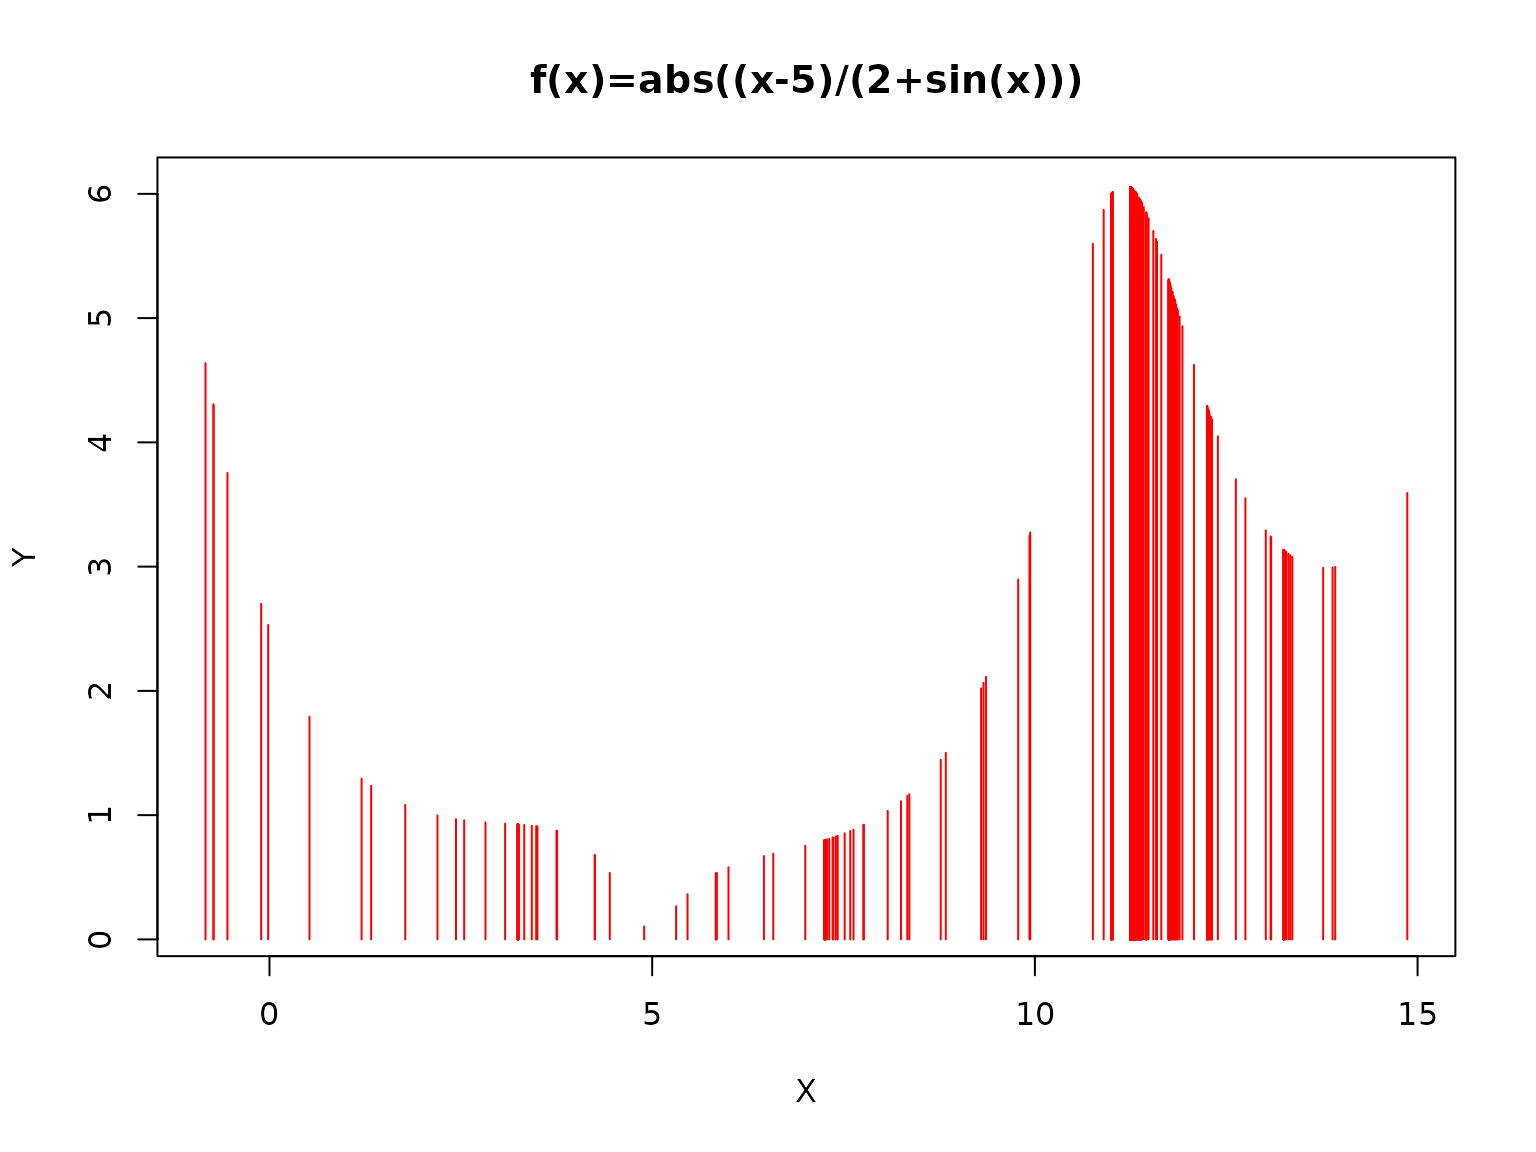
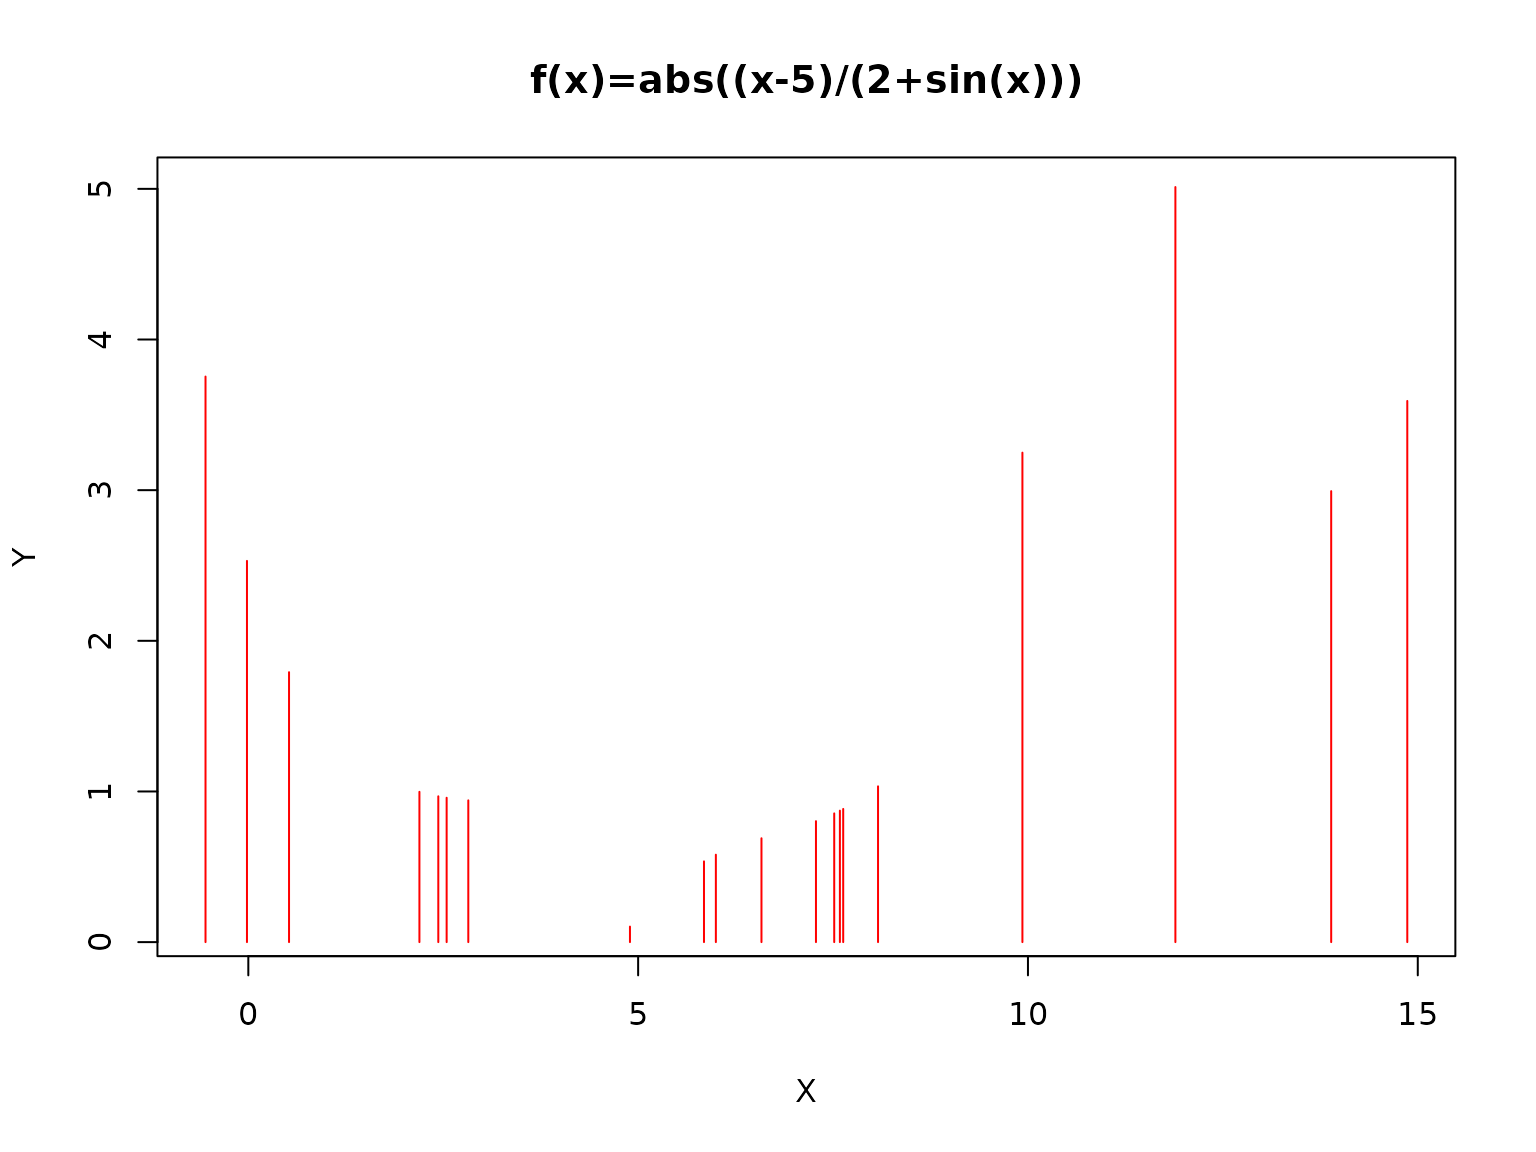
Deploying to gh-pages from @ barcaroli/QGA@d4a26b736a5ef6b88785fa97afcf81897e3bfdae 🚀

diff --git a/articles/functionMax.html b/articles/functionMax.html
@@ -94,7 +94,7 @@
                         <h4 data-toc-skip class="author">Giulio
 Barcaroli</h4>
             
-            <h4 data-toc-skip class="date">2024-09-24</h4>
+            <h4 data-toc-skip class="date">2024-09-25</h4>
       
       <small class="dont-index">Source: <a href="https://github.com/barcaroli/QGA/blob/main/vignettes/functionMax.Rmd" class="external-link"><code>vignettes/functionMax.Rmd</code></a></small>
       <div class="hidden name"><code>functionMax.Rmd</code></div>
@@ -229,14 +229,14 @@ iteration, about 4.7% of the bit values are swapped.</p>
 <span>                   eval_fitness <span class="op">=</span> <span class="va">functionMax</span>,</span>
 <span>                   eval_func_inputs <span class="op">=</span> <span class="fu"><a href="https://rdrr.io/r/base/list.html" class="external-link">list</a></span><span class="op">(</span><span class="va">X</span>,<span class="va">Y</span><span class="op">)</span><span class="op">)</span></span>
 <span><span class="co">#&gt; </span></span>
-<span><span class="co">#&gt;  *** Best fitness:  6.05498</span></span></code></pre></div>
+<span><span class="co">#&gt;  *** Best fitness:  5.012177</span></span></code></pre></div>
 <p><img src="functionMax_files/figure-html/unnamed-chunk-5-1.png" width="768">
 The found solution is</p>
 <div class="sourceCode" id="cb6"><pre class="downlit sourceCode r">
 <code class="sourceCode R"><span><span class="va">solution</span> <span class="op">&lt;-</span> <span class="va">solutionQGA</span><span class="op">[[</span><span class="fl">1</span><span class="op">]</span><span class="op">]</span></span>
 <span><span class="va">solution</span> <span class="op">&lt;-</span> <span class="va">solution</span> <span class="op">-</span> <span class="fl">1</span></span>
 <span><span class="va">solution</span></span>
-<span><span class="co">#&gt;  [1] 1 1 0 0 0 1 0 0 0 0 0 0 0 0 0 0</span></span>
+<span><span class="co">#&gt;  [1] 1 1 0 0 1 1 1 0 0 1 0 0 0 0 0 1</span></span>
 <span><span class="va">x</span><span class="op">=</span><span class="fl">0</span></span>
 <span><span class="kw">for</span> <span class="op">(</span><span class="va">j</span> <span class="kw">in</span> <span class="fu"><a href="https://rdrr.io/r/base/c.html" class="external-link">c</a></span><span class="op">(</span><span class="fl">1</span><span class="op">:</span><span class="va">Genome</span><span class="op">)</span><span class="op">)</span> <span class="op">{</span></span>
 <span>  <span class="va">x</span><span class="op">=</span><span class="va">x</span><span class="op">+</span><span class="va">solution</span><span class="op">[</span><span class="va">j</span><span class="op">]</span><span class="op">*</span><span class="fl">2</span><span class="op">^</span><span class="op">(</span><span class="va">Genome</span><span class="op">-</span><span class="va">j</span><span class="op">)</span></span>
@@ -245,7 +245,7 @@ The found solution is</p>
 <span><span class="va">x</span><span class="op">=</span><span class="va">x</span><span class="op">*</span><span class="fl">16</span><span class="op">/</span><span class="op">(</span><span class="fl">2</span><span class="op">^</span><span class="va">Genome</span><span class="op">-</span><span class="fl">1</span><span class="op">)</span><span class="op">-</span><span class="fl">1</span></span>
 <span><span class="va">y</span><span class="op">=</span> <span class="fu"><a href="https://rdrr.io/r/base/MathFun.html" class="external-link">abs</a></span><span class="op">(</span><span class="op">(</span><span class="va">x</span><span class="op">-</span><span class="fl">5</span><span class="op">)</span><span class="op">/</span><span class="op">(</span><span class="fl">2</span><span class="op">+</span><span class="fu"><a href="https://rdrr.io/r/base/Trig.html" class="external-link">sin</a></span><span class="op">(</span><span class="va">x</span><span class="op">)</span><span class="op">)</span><span class="op">)</span></span>
 <span><span class="fu"><a href="https://rdrr.io/r/base/cat.html" class="external-link">cat</a></span><span class="op">(</span><span class="st">"Function maximum: "</span>,<span class="va">y</span>,<span class="st">" at x="</span>,<span class="va">x</span><span class="op">)</span></span>
-<span><span class="co">#&gt; Function maximum:  6.05498  at x= 11.25019</span></span></code></pre></div>
+<span><span class="co">#&gt; Function maximum:  5.012177  at x= 11.89107</span></span></code></pre></div>
 <p>We remind that the analytical solution was:</p>
 <div class="sourceCode" id="cb7"><pre class="downlit sourceCode r">
 <code class="sourceCode R"><span><span class="fu"><a href="https://rdrr.io/r/base/cat.html" class="external-link">cat</a></span><span class="op">(</span><span class="st">"f("</span>, <span class="va">root1</span>, <span class="st">") ≈"</span>, <span class="va">f_root1</span>, <span class="st">"\n"</span><span class="op">)</span></span>

diff --git a/reference/QGA.html b/reference/QGA.html
@@ -93,7 +93,7 @@
 <span>  <span class="va">eval_fitness</span>,</span>
 <span>  <span class="va">eval_func_inputs</span>,</span>
 <span>  stop_limit <span class="op">=</span> <span class="cn">NULL</span>,</span>
-<span>  stop_iters <span class="op">=</span> <span class="fl">20</span></span>
+<span>  stop_iters <span class="op">=</span> <span class="cn">NULL</span></span>
 <span><span class="op">)</span></span></code></pre></div>
     </div>
 
@@ -180,7 +180,7 @@ to each element of the chromosome (default is 1/(Genome+1))</p></dd>
 
 
 <dt id="arg-stop-iters">stop_iters<a class="anchor" aria-label="anchor" href="#arg-stop-iters"></a></dt>
-<dd><p>number of iterations without improvement of fitness before stopping (default is 100)</p></dd>
+<dd><p>number of iterations without improvement of fitness before stopping</p></dd>
 
 </dl></div>
     <div id="value">
@@ -245,18 +245,18 @@ problem to be optmized.</p>
 <span class="r-in"><span>                eval_fitness <span class="op">=</span> <span class="va">KnapsackProblem</span>,</span></span>
 <span class="r-in"><span>                eval_func_inputs <span class="op">=</span> <span class="fu"><a href="https://rdrr.io/r/base/list.html" class="external-link">list</a></span><span class="op">(</span><span class="va">items</span>,</span></span>
 <span class="r-in"><span>                                        <span class="va">maxweight</span><span class="op">)</span>,</span></span>
-<span class="r-in"><span>                stop_iters<span class="op">=</span><span class="fl">50</span><span class="op">)</span></span></span>
+<span class="r-in"><span>                stop_iters <span class="op">=</span> <span class="cn">NULL</span><span class="op">)</span></span></span>
 <span class="r-out co"><span class="r-pr">#&gt;</span> </span>
-<span class="r-out co"><span class="r-pr">#&gt;</span>  *** Best fitness:  291</span>
+<span class="r-out co"><span class="r-pr">#&gt;</span>  *** Best fitness:  166</span>
 <span class="r-plt img"><img src="QGA-2.png" alt="" width="700" height="433"></span>
 <span class="r-in"><span><span class="co">#----------------------</span></span></span>
 <span class="r-in"><span><span class="co"># Analyze results</span></span></span>
 <span class="r-in"><span><span class="va">solution</span> <span class="op">&lt;-</span> <span class="va">solutionQGA</span><span class="op">[[</span><span class="fl">1</span><span class="op">]</span><span class="op">]</span></span></span>
 <span class="r-in"><span><span class="va">solution</span> <span class="op">&lt;-</span> <span class="va">solution</span> <span class="op">-</span> <span class="fl">1</span></span></span>
 <span class="r-in"><span><span class="fu"><a href="https://rdrr.io/r/base/sum.html" class="external-link">sum</a></span><span class="op">(</span><span class="va">solution</span><span class="op">)</span></span></span>
-<span class="r-out co"><span class="r-pr">#&gt;</span> [1] 291</span>
+<span class="r-out co"><span class="r-pr">#&gt;</span> [1] 166</span>
 <span class="r-in"><span><span class="fu"><a href="https://rdrr.io/r/base/sum.html" class="external-link">sum</a></span><span class="op">(</span><span class="va">items</span><span class="op">$</span><span class="va">weight</span><span class="op">[</span><span class="va">solution</span><span class="op">]</span><span class="op">)</span></span></span>
-<span class="r-out co"><span class="r-pr">#&gt;</span> [1] 7524.877</span>
+<span class="r-out co"><span class="r-pr">#&gt;</span> [1] 4292.542</span>
 <span class="r-in"><span><span class="va">maxweight</span></span></span>
 <span class="r-out co"><span class="r-pr">#&gt;</span> [1] 7539.085</span>
 <span class="r-in"><span></span></span>

diff --git a/articles/airlines_hubs.html b/articles/airlines_hubs.html
@@ -94,7 +94,7 @@
                         <h4 data-toc-skip class="author">Giulio
 Barcaroli</h4>
             
-            <h4 data-toc-skip class="date">2024-09-24</h4>
+            <h4 data-toc-skip class="date">2024-09-25</h4>
       
       <small class="dont-index">Source: <a href="https://github.com/barcaroli/QGA/blob/main/vignettes/airlines_hubs.Rmd" class="external-link"><code>vignettes/airlines_hubs.Rmd</code></a></small>
       <div class="hidden name"><code>airlines_hubs.Rmd</code></div>

diff --git a/articles/clustering.html b/articles/clustering.html
@@ -94,7 +94,7 @@
                         <h4 data-toc-skip class="author">Giulio
 Barcaroli</h4>
             
-            <h4 data-toc-skip class="date">2024-09-24</h4>
+            <h4 data-toc-skip class="date">2024-09-25</h4>
       
       <small class="dont-index">Source: <a href="https://github.com/barcaroli/QGA/blob/main/vignettes/clustering.Rmd" class="external-link"><code>vignettes/clustering.Rmd</code></a></small>
       <div class="hidden name"><code>clustering.Rmd</code></div>

diff --git a/articles/QGA.html b/articles/QGA.html
@@ -94,7 +94,7 @@
                         <h4 data-toc-skip class="author">Giulio
 Barcaroli</h4>
             
-            <h4 data-toc-skip class="date">2024-09-24</h4>
+            <h4 data-toc-skip class="date">2024-09-25</h4>
       
       <small class="dont-index">Source: <a href="https://github.com/barcaroli/QGA/blob/main/vignettes/QGA.Rmd" class="external-link"><code>vignettes/QGA.Rmd</code></a></small>
       <div class="hidden name"><code>QGA.Rmd</code></div>

diff --git a/articles/TSP.html b/articles/TSP.html
@@ -94,7 +94,7 @@
                         <h4 data-toc-skip class="author">Giulio
 Barcaroli</h4>
             
-            <h4 data-toc-skip class="date">2024-09-24</h4>
+            <h4 data-toc-skip class="date">2024-09-25</h4>
       
       <small class="dont-index">Source: <a href="https://github.com/barcaroli/QGA/blob/main/vignettes/TSP.Rmd" class="external-link"><code>vignettes/TSP.Rmd</code></a></small>
       <div class="hidden name"><code>TSP.Rmd</code></div>
